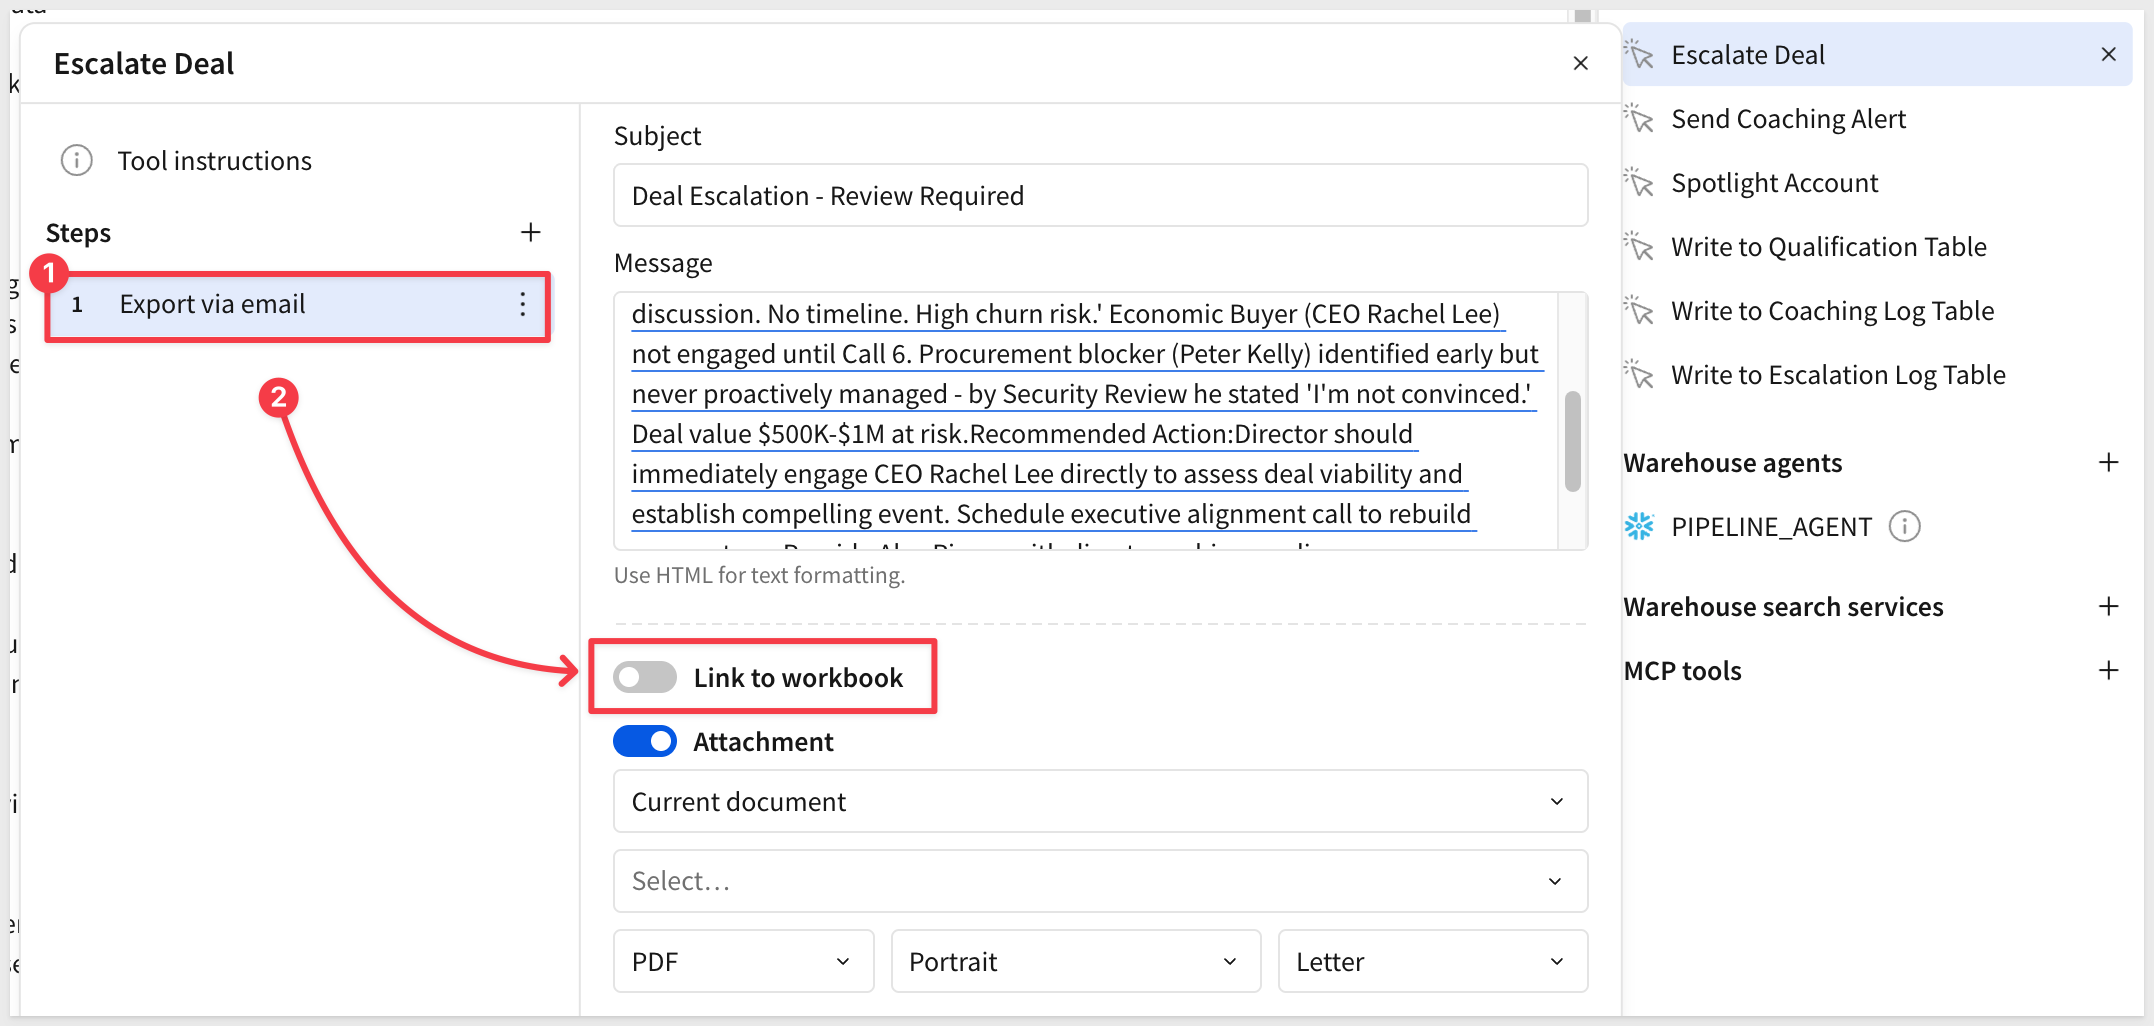
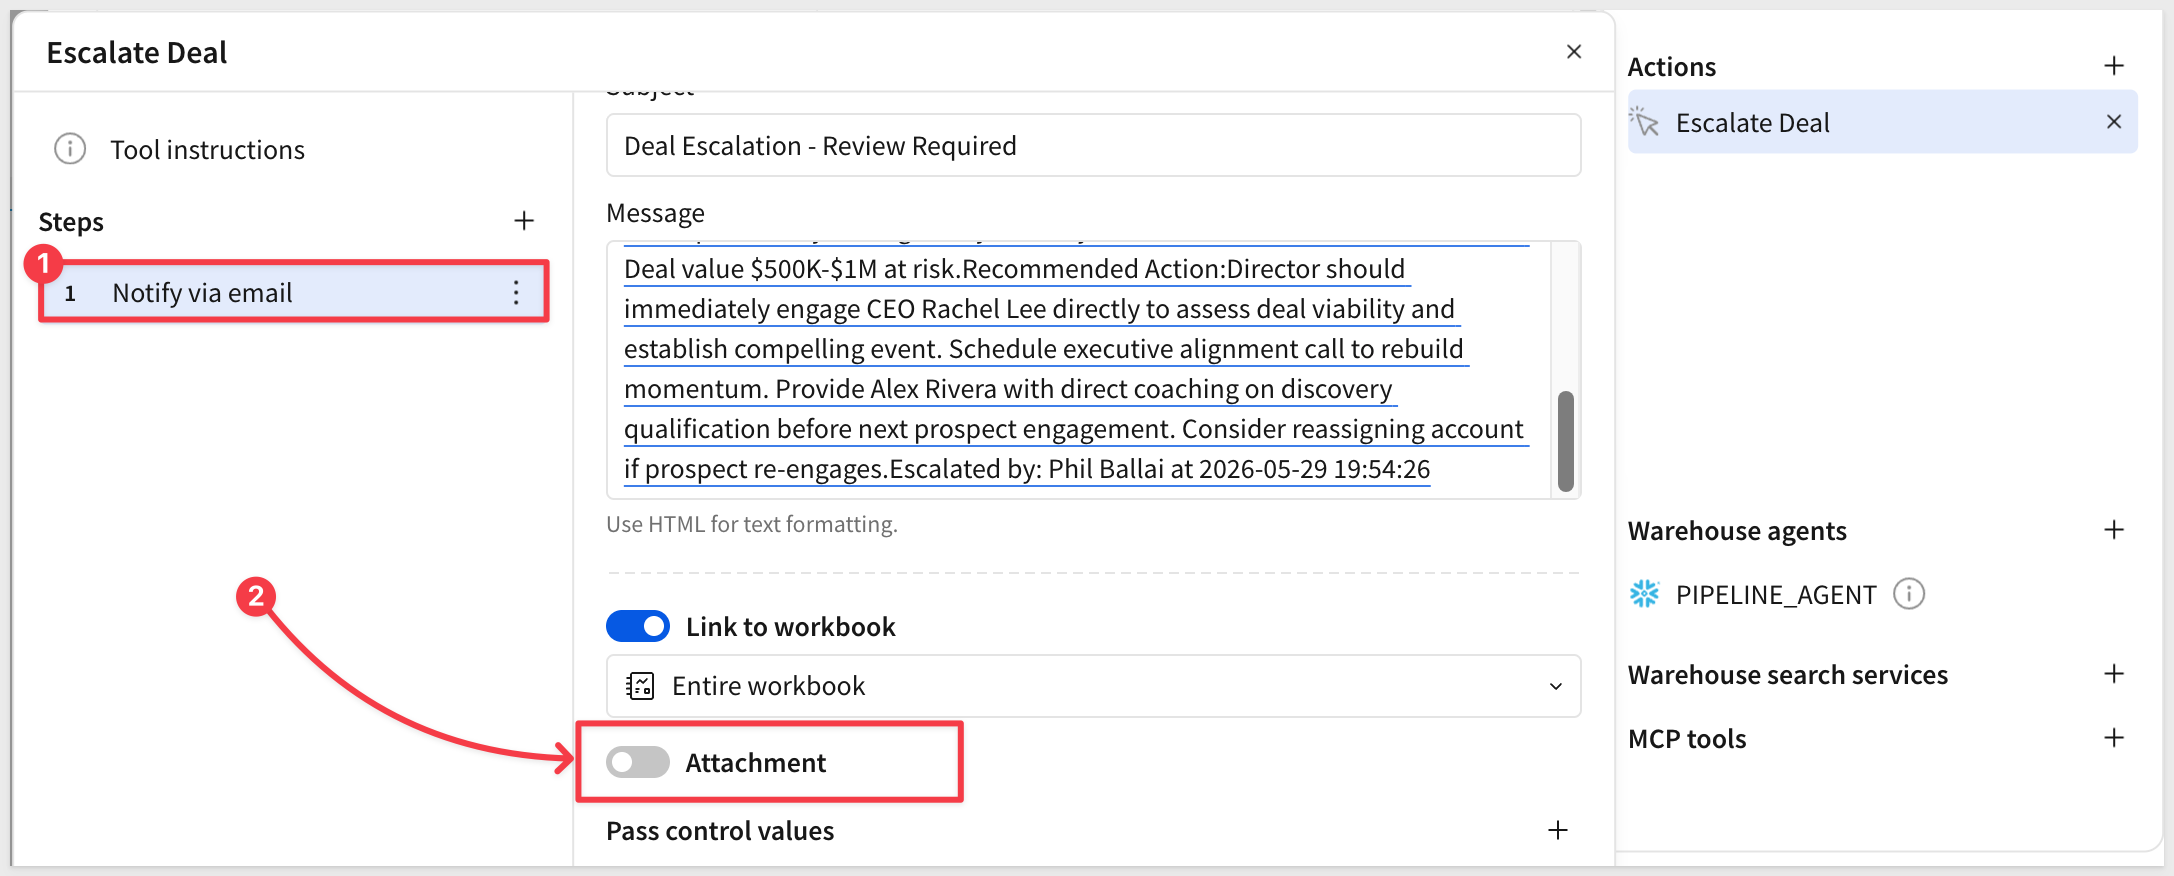
Merge pull request #598 from sigmacomputing/repeater-single-row-containers
one-more-fix-for-sgill

Pull request: one-more-fix-for-sgill

diff --git a/site/sigmaguides/src/partners_snowflake_builders_guide_to_sigma_ai_apps/partners_snowflake_builders_guide_to_sigma_ai_apps.md b/site/sigmaguides/src/partners_snowflake_builders_guide_to_sigma_ai_apps/partners_snowflake_builders_guide_to_sigma_ai_apps.md
@@ -6,7 +6,7 @@ environments: web
 status: Hidden
 feedback link: https://github.com/sigmacomputing/sigmaquickstarts/issues
 tags:
-lastUpdated: 2026-05-29
+lastUpdated: 2026-06-29
 
 # The Builder's Guide to Sigma AI Apps: Workflows, Cortex Agents & AI Functions
 
@@ -450,9 +450,10 @@ Configure the email:
 | Recipient | Your email address |
 | Subject | `Deal Escalation - Review Required` |
 | Message | Use [Dynamic text](https://help.sigmacomputing.com/docs/text-elements#add-dynamic-text-based-on-your-data) — press `=` on the keyboard to open the formula bar and paste the formula below |
-| Link to workbook | `OFF` |
+| Link to workbook | `ON` |
+| Attachment | `OFF` |
 
-Scroll down and `Disable` the `Link to workbook` option or the email will not be sent:
+Be sure to scroll down and `Disable` the `Attachment` option or the email will not be sent:
 
 <img src="assets/bga_34.png" width="800"/>
 
@@ -506,7 +507,10 @@ Configure the email:
 | Recipient | Your email address (simulating the rep) |
 | Subject | Dynamic text |
 | Message | Dynamic text |
-| Link to workbook | `OFF` |
+| Link to workbook | `ON` |
+| Attachment | `OFF` |
+
+Scroll down and `Disable` the `Attachment` option or the email will not be sent.
 
 Subject formula:
 